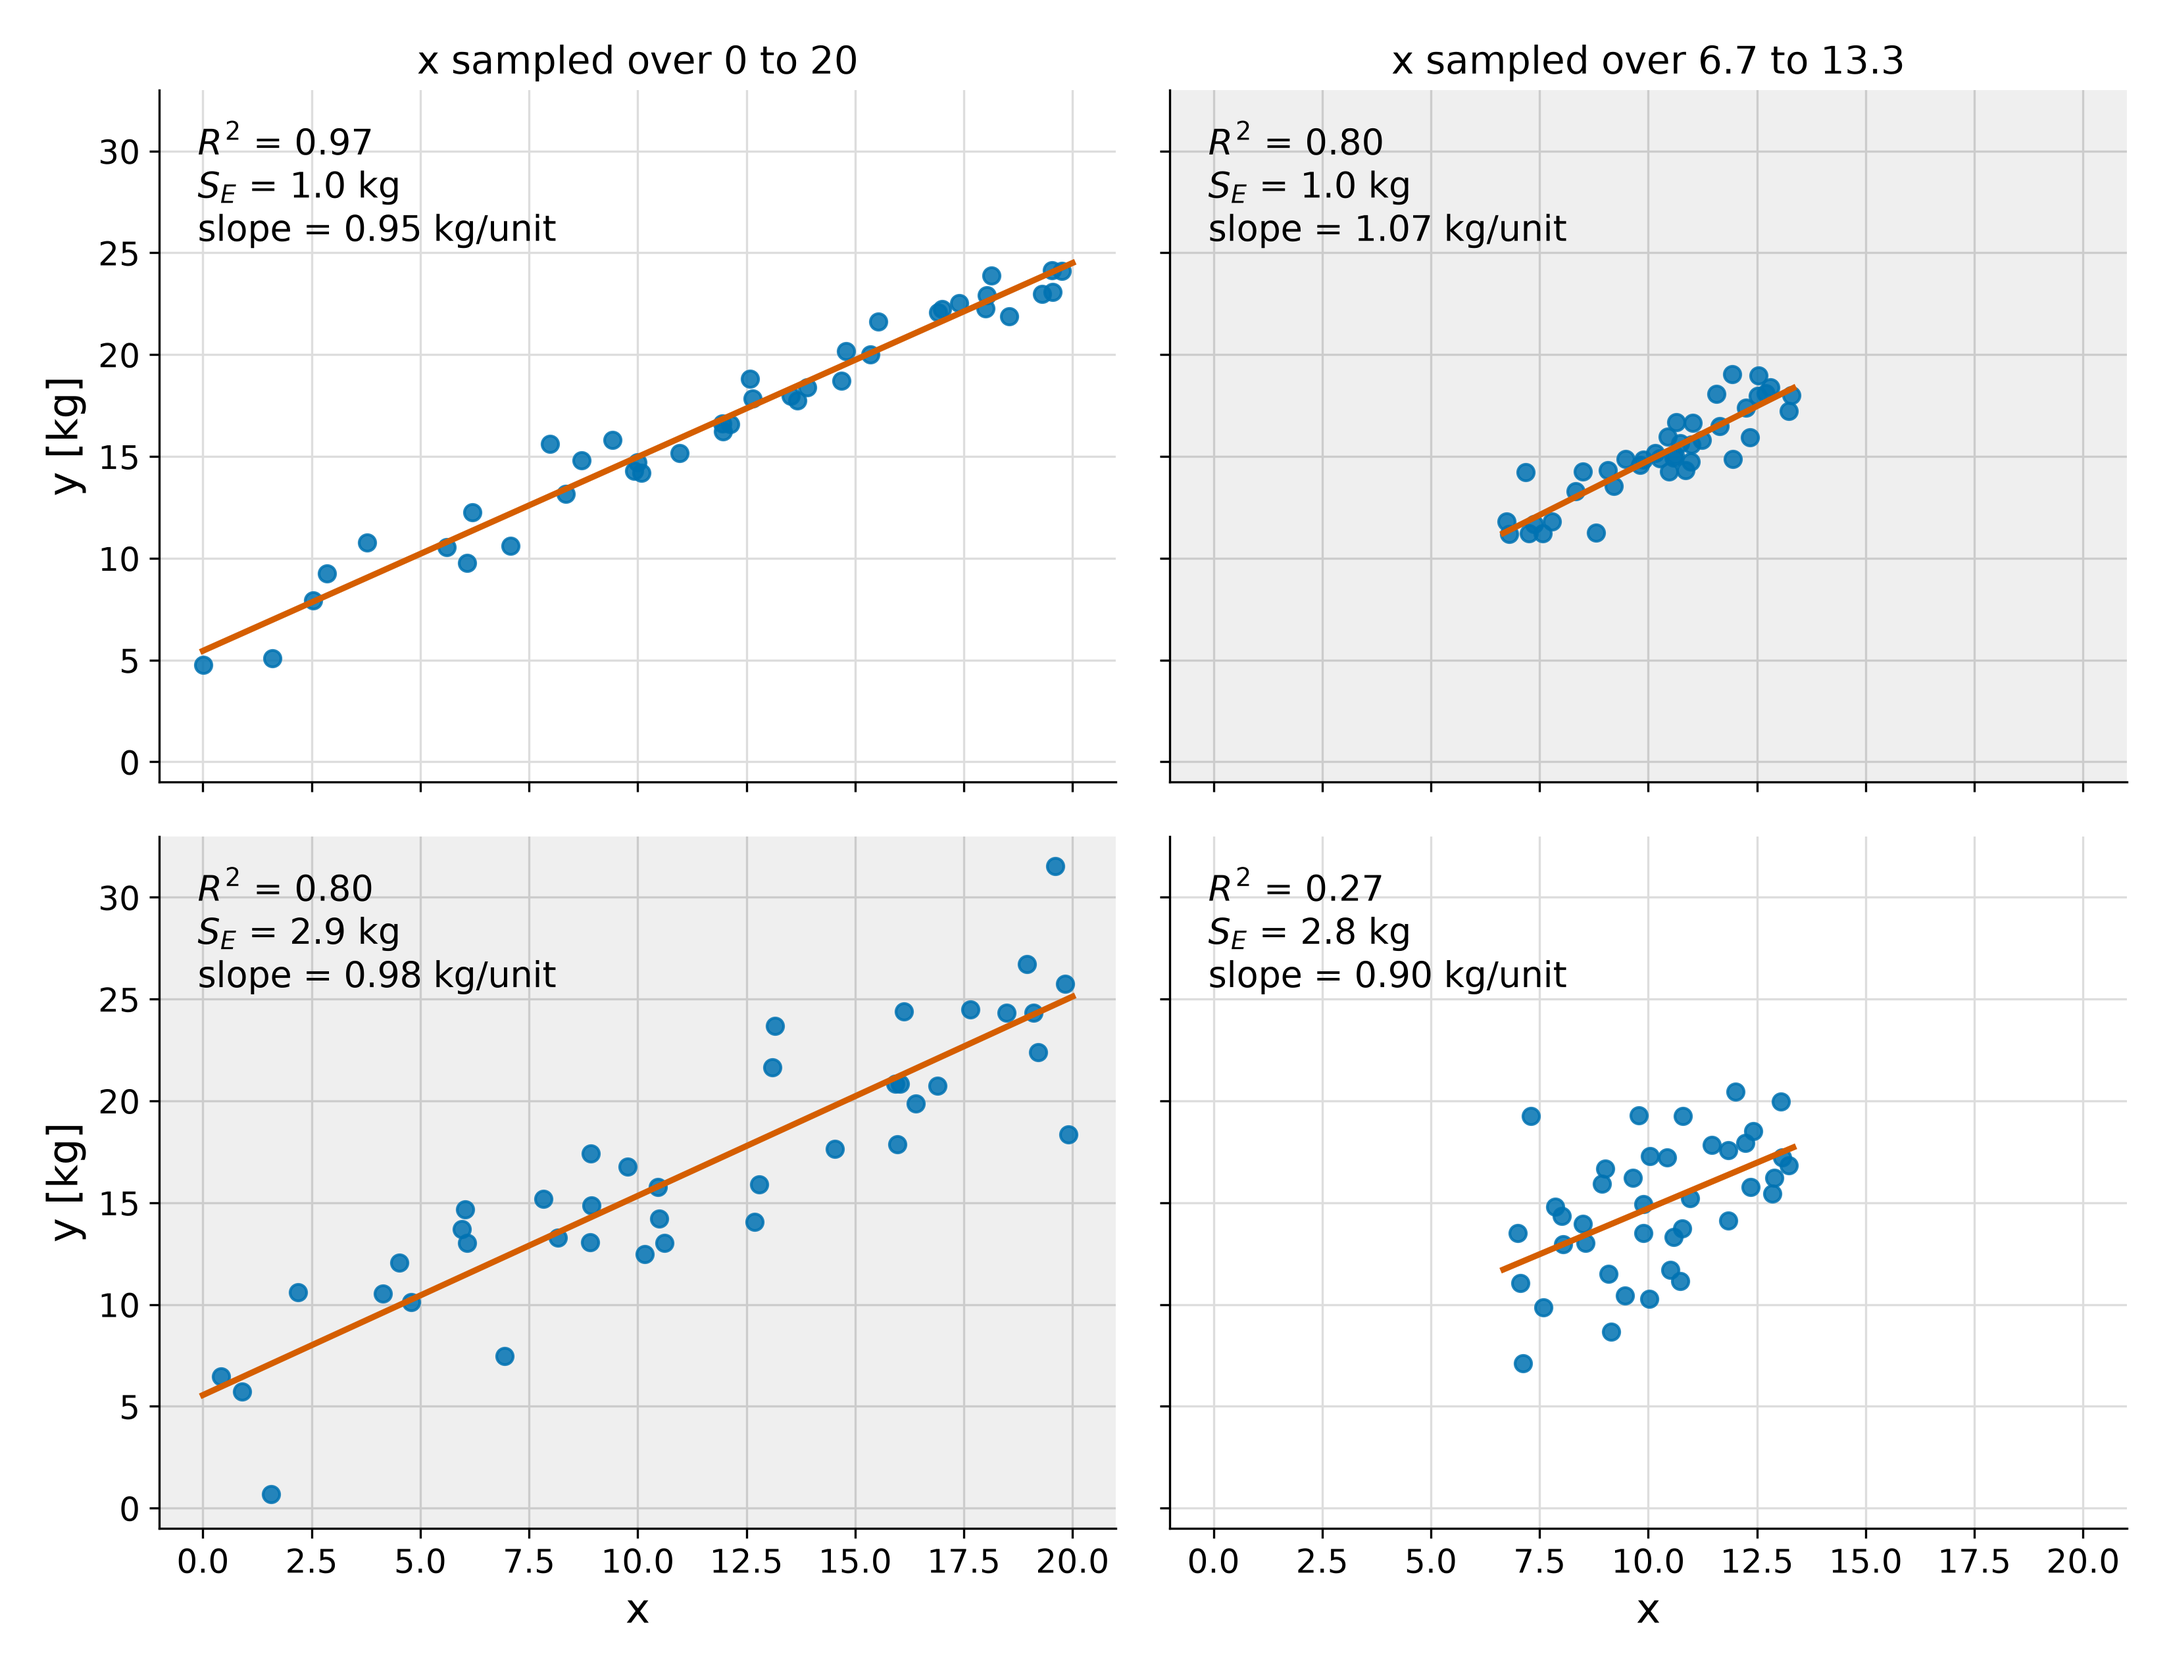
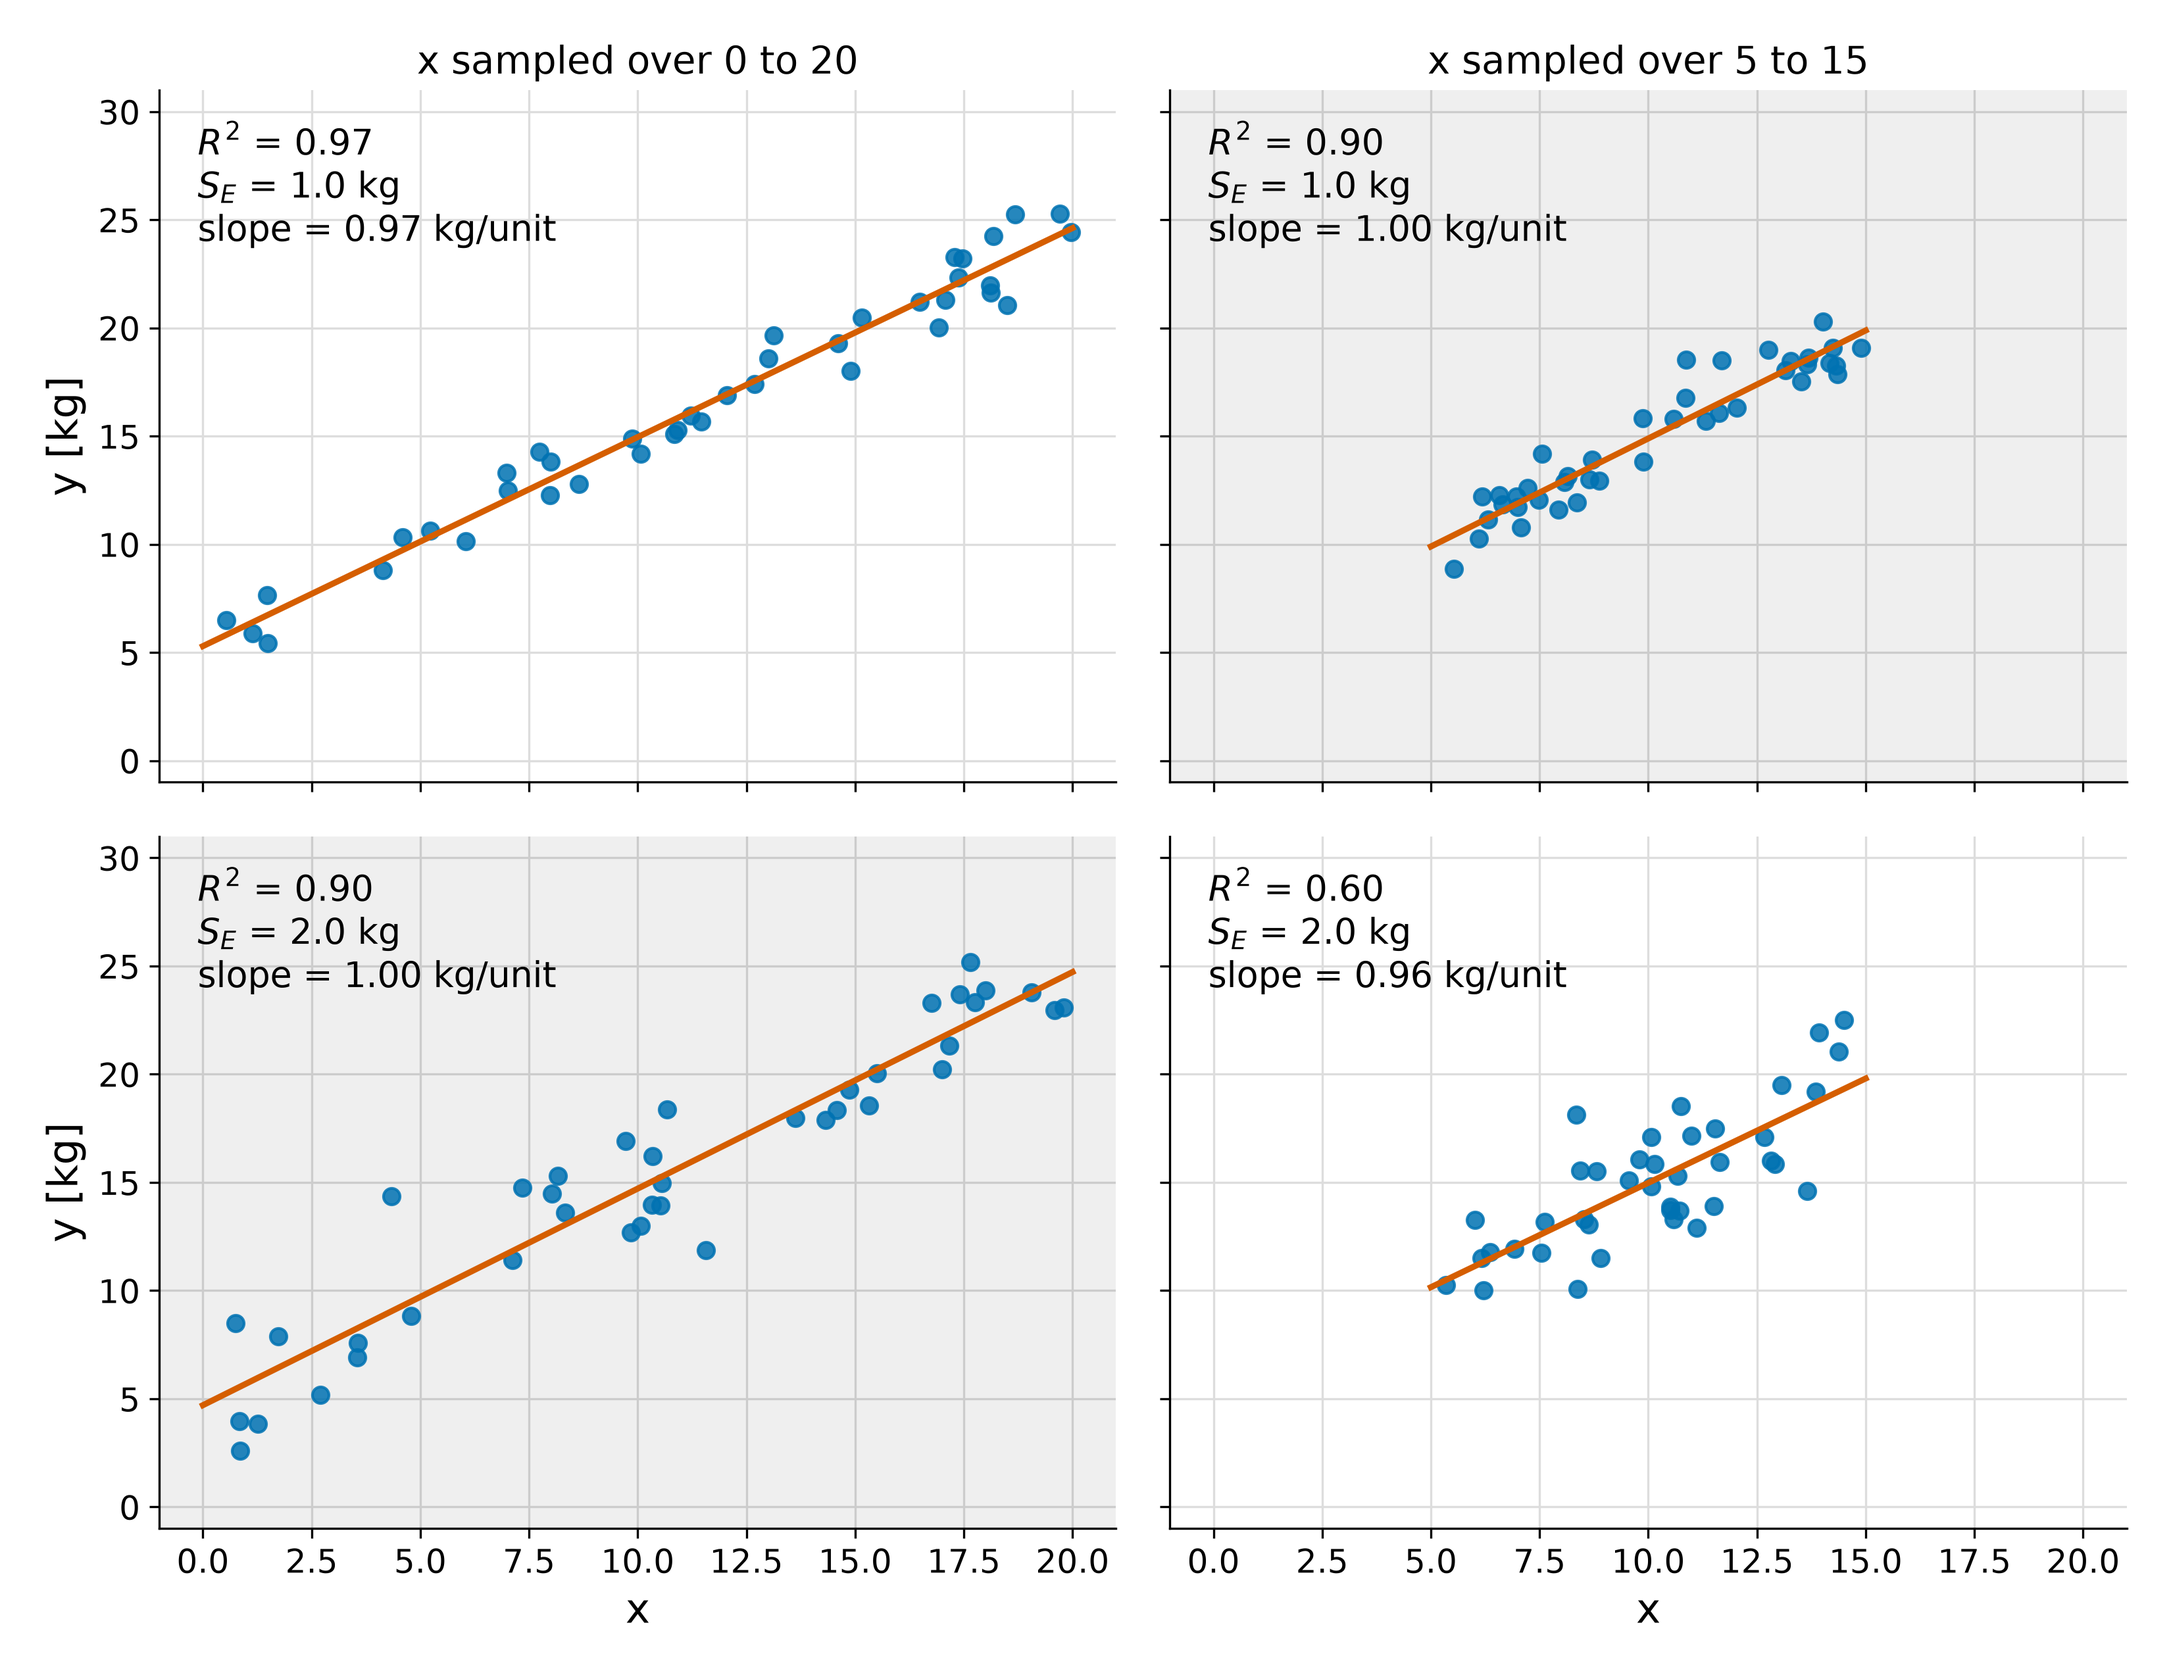
Put the standard errors in the R-squared figure on exact values
The panel annotations previously read S_E of 1.0 kg and 2.9 kg against
nominal error standard deviations of 1 and 3: the realised value drifted
from the value being illustrated. The errors are now rescaled after they
are drawn so that the realised S_E is exactly 1.000 kg and 2.000 kg.
Least squares residuals are linear in the errors, so scaling the errors
by a constant scales S_E by the same constant, with no iteration needed.

Going from a three-fold to a two-fold difference in the error means the
narrow column has to become the middle half of the x range rather than
its middle third, so that the two panels sharing an R-squared still
share it. They now both report 0.90.

Claude-Session: https://claude.ai/code/session_01HmZm5s8KTMzGQoqsWa1Nzr

diff --git a/least-squares/r-squared-figures.py b/least-squares/r-squared-figures.py
@@ -9,12 +9,15 @@
 
 - ``r-squared-versus-standard-error.png``: four simulated data sets from
   the same model, y = 5 + x + e, drawn on common axes. The rows differ
-  in the size of the error, S_E = 1 kg and S_E = 3 kg; the columns
+  in the size of the error, S_E = 1 kg and S_E = 2 kg; the columns
   differ in how widely x was sampled, over the full range or over the
-  middle third of it. Each row therefore holds the prediction error
+  middle half of it. Each row therefore holds the prediction error
   fixed while R-squared moves, and the two panels on the anti-diagonal
-  report the same R-squared of 0.80 with a three-fold difference in
-  prediction error.
+  report the same R-squared of 0.90 with a two-fold difference in
+  prediction error. The errors are rescaled after they are drawn so
+  that the realised S_E is exactly 1.000 kg and 2.000 kg rather than
+  approximately so: least squares residuals are linear in the errors,
+  so scaling the errors by a constant scales S_E by the same constant.
 
 Both figures use a fixed seed, so the numbers annotated on the panels
 are the same ones the plotly code in the chapter produces.
@@ -41,7 +44,7 @@ VERMILLION = "#D55E00"
 GREY = "#666666"
 
 DPI = 300
-SEED = 347
+SEED = 225
 HERE = pathlib.Path(__file__).parent
 
 # The 11-point example carried through the least-squares chapter.
@@ -124,18 +127,24 @@ def r2_versus_se_figure(outdir: pathlib.Path, filename: str) -> None:
     """Four data sets from one model: R-squared moves, S_E stays or not."""
     rng = np.random.default_rng(SEED)
     n = 40
-    # Sampled over the full range of x, or over its middle third: the same
-    # underlying relationship, but a third of the spread in x.
+    # Sampled over the full range of x, or over its middle half: the same
+    # underlying relationship, but half the spread in x.
     spreads = {"x sampled over 0 to 20": (0.0, 20.0),
-               "x sampled over 6.7 to 13.3": (20 / 3, 40 / 3)}
-    sigmas = [1.0, 3.0]
+               "x sampled over 5 to 15": (5.0, 15.0)}
+    targets = [1.0, 2.0]
 
     fig, axes = plt.subplots(2, 2, figsize=(11.0, 8.5), sharex=True, sharey=True)
-    for row, sigma in enumerate(sigmas):
+    for row, target in enumerate(targets):
         for col, (title, (low, high)) in enumerate(spreads.items()):
             ax = axes[row][col]
             x = rng.uniform(low, high, n)
-            y = 5.0 + 1.0 * x + rng.normal(0.0, sigma, n)
+            errors = rng.normal(0.0, 1.0, n)
+
+            # Rescale the errors so the realised standard error is exactly
+            # the target. Least squares residuals are linear in the errors,
+            # so scaling the errors scales S_E by the same factor.
+            se_draw = fit(x, 5.0 + 1.0 * x + errors)[3]
+            y = 5.0 + 1.0 * x + errors * (target / se_draw)
             b0, b1, r2, se = fit(x, y)
 
             grid = np.linspace(low, high, 100)
@@ -157,11 +166,11 @@ def r2_versus_se_figure(outdir: pathlib.Path, filename: str) -> None:
                 ax.set_xlabel("x")
             if col == 0:
                 ax.set_ylabel("y [kg]")
-            print(f"{filename}: sigma {sigma}, {title}: "
-                  f"R2 {r2:.3f}, S_E {se:.2f}, slope {b1:.3f}")
+            print(f"{filename}: target S_E {target}, {title}: "
+                  f"R2 {r2:.3f}, S_E {se:.4f}, slope {b1:.3f}")
 
     axes[0][0].set_xlim(-1.0, 21.0)
-    axes[0][0].set_ylim(-1.0, 33.0)
+    axes[0][0].set_ylim(-1.0, 31.0)
     fig.tight_layout()
     fig.savefig(outdir / filename, dpi=DPI)
     plt.close(fig)
